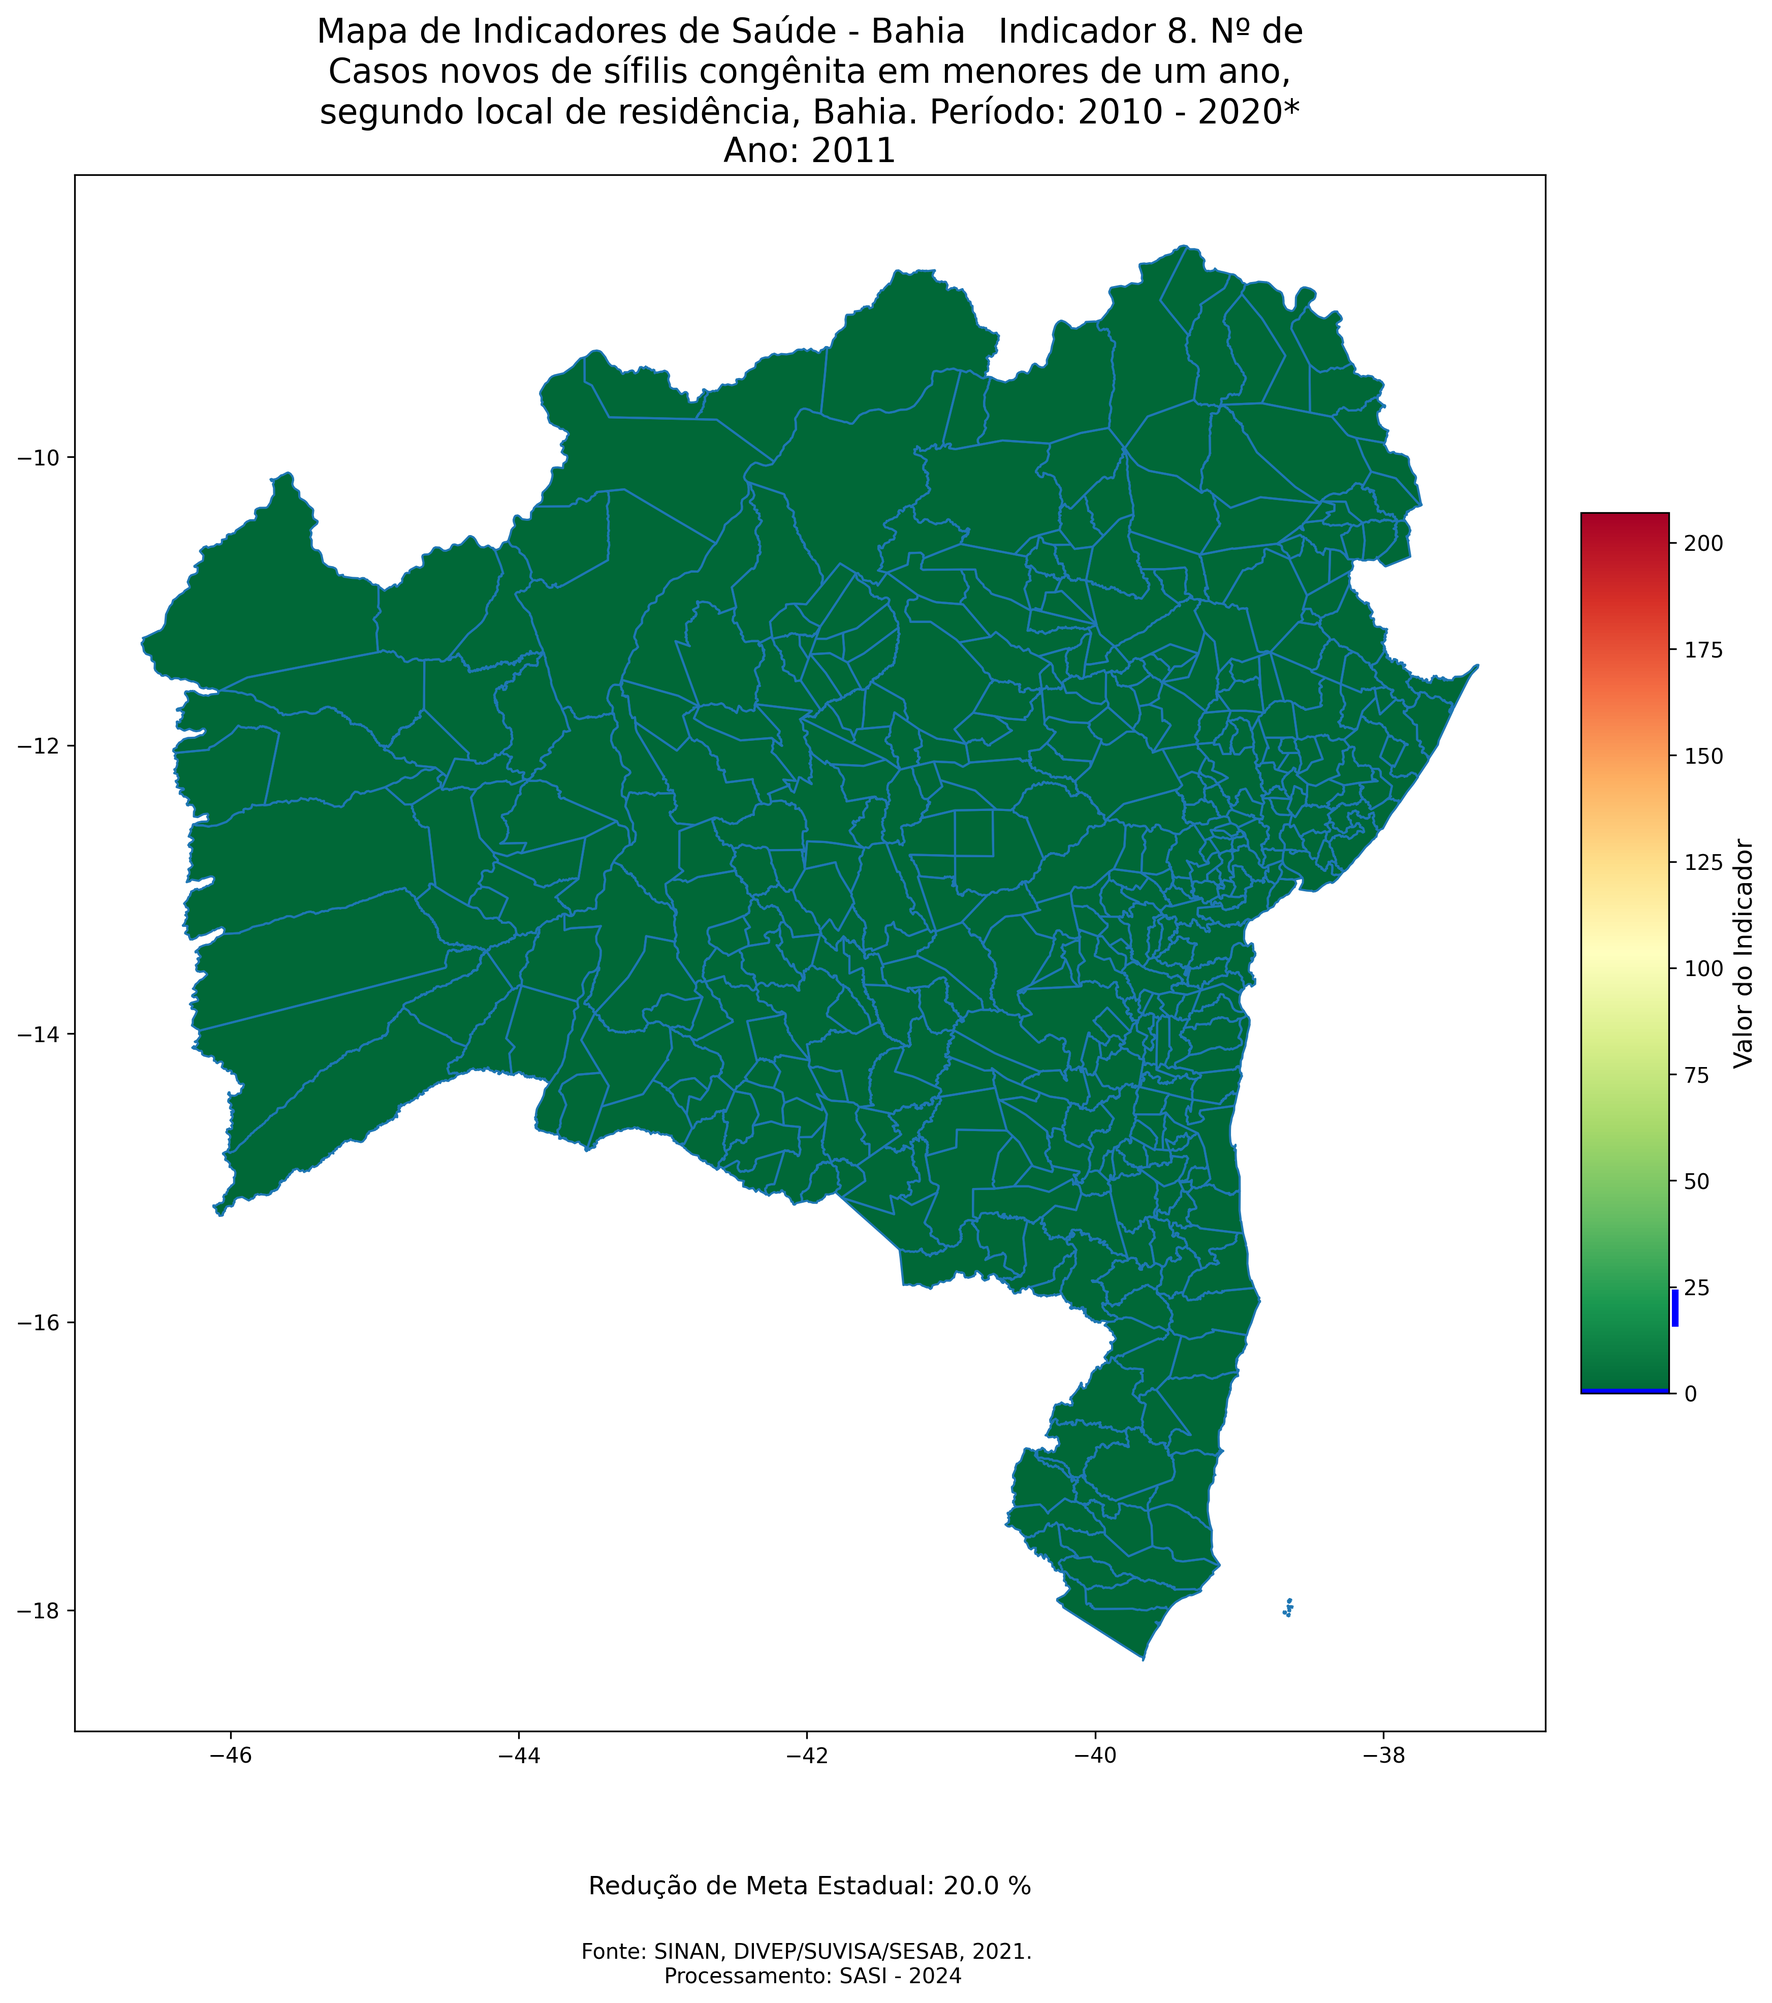
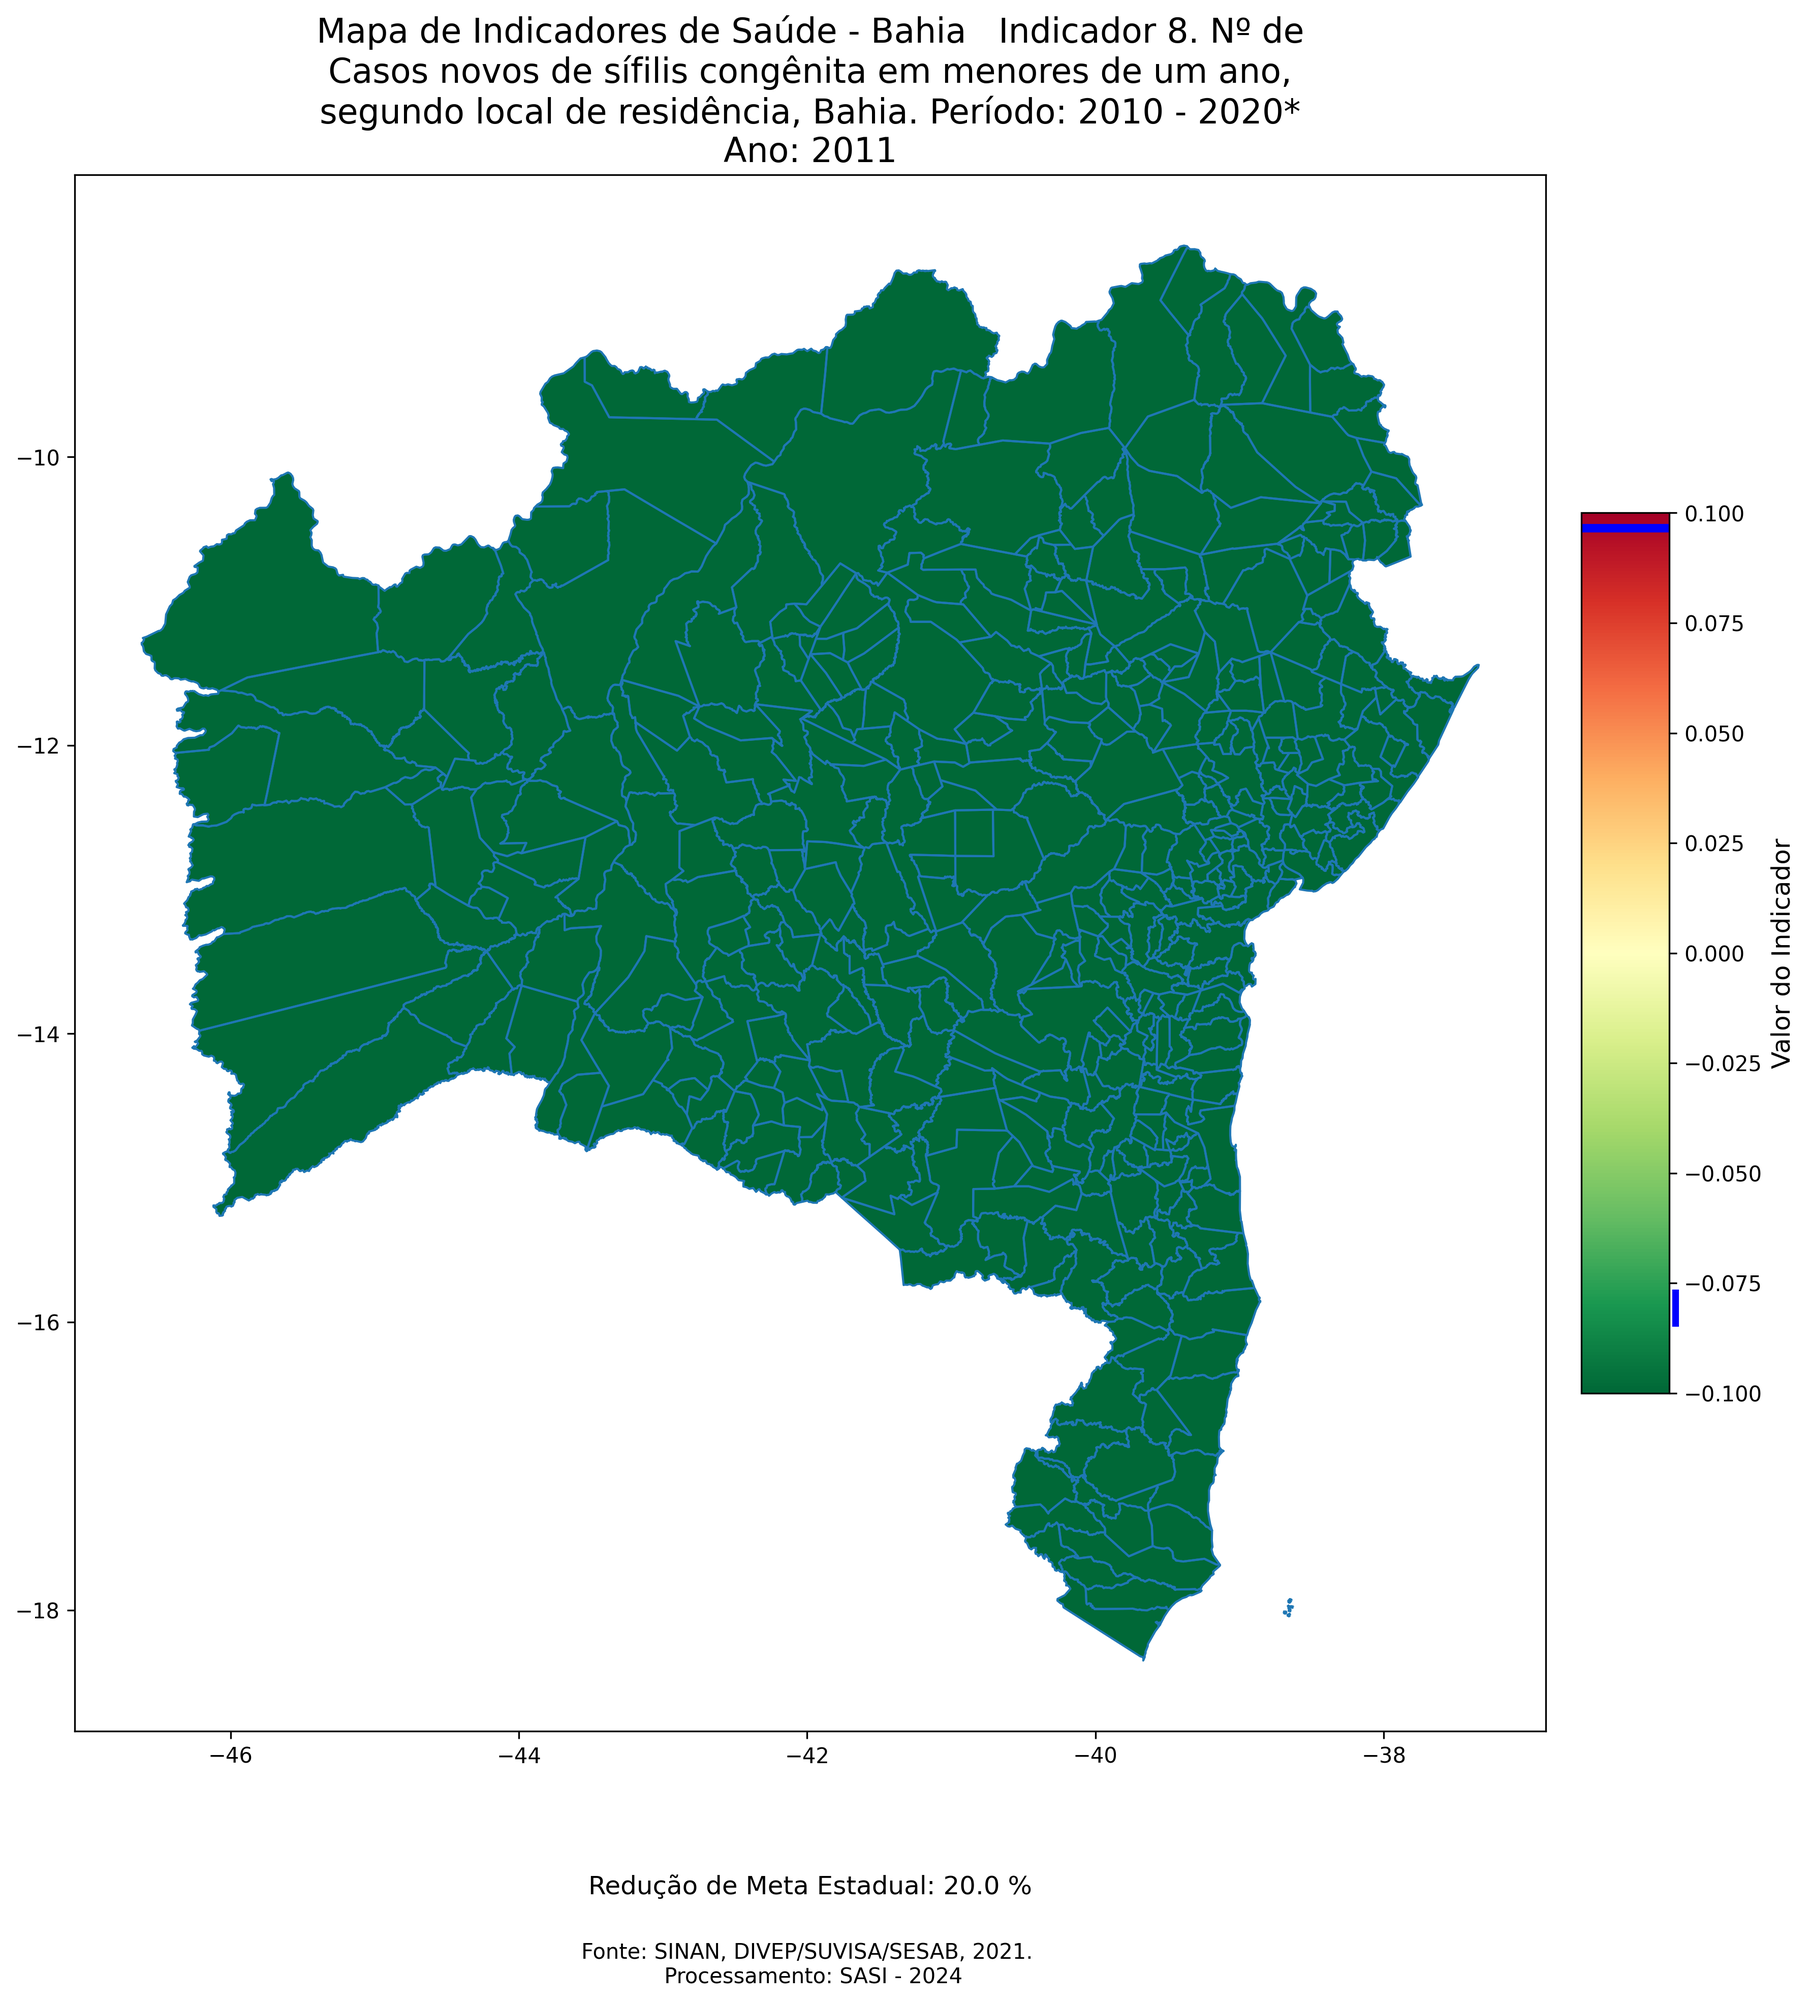
fix: remoção do indicador 8

diff --git a/src/scripts/map_image_generator.py b/src/scripts/map_image_generator.py
@@ -29,7 +29,7 @@ indicadores_dic = {
     "indicador_3":  { "prefix_meta": " ", "sufix_meta": "%", "invert_color_scale": False },
     "indicador_5":  { "prefix_meta": "  ", "sufix_meta": "%", "invert_color_scale": False },
     "indicador_6": { "prefix_meta": "  ", "sufix_meta": "%", "invert_color_scale": False }, 
-    "indicador_8":{ "prefix_meta": "Redução de ", "sufix_meta": "%", "invert_color_scale": True },
+    # "indicador_8":{ "prefix_meta": "Redução de ", "sufix_meta": "%", "invert_color_scale": True },
     "indicador_9":{ "prefix_meta": "  ", "sufix_meta": "%", "invert_color_scale": True },
     "Indicador_13": { "prefix_meta": "  ", "sufix_meta": "%", "invert_color_scale": False },
     "Indicador_14": { "prefix_meta": "  ", "sufix_meta": "%", "invert_color_scale": True },
